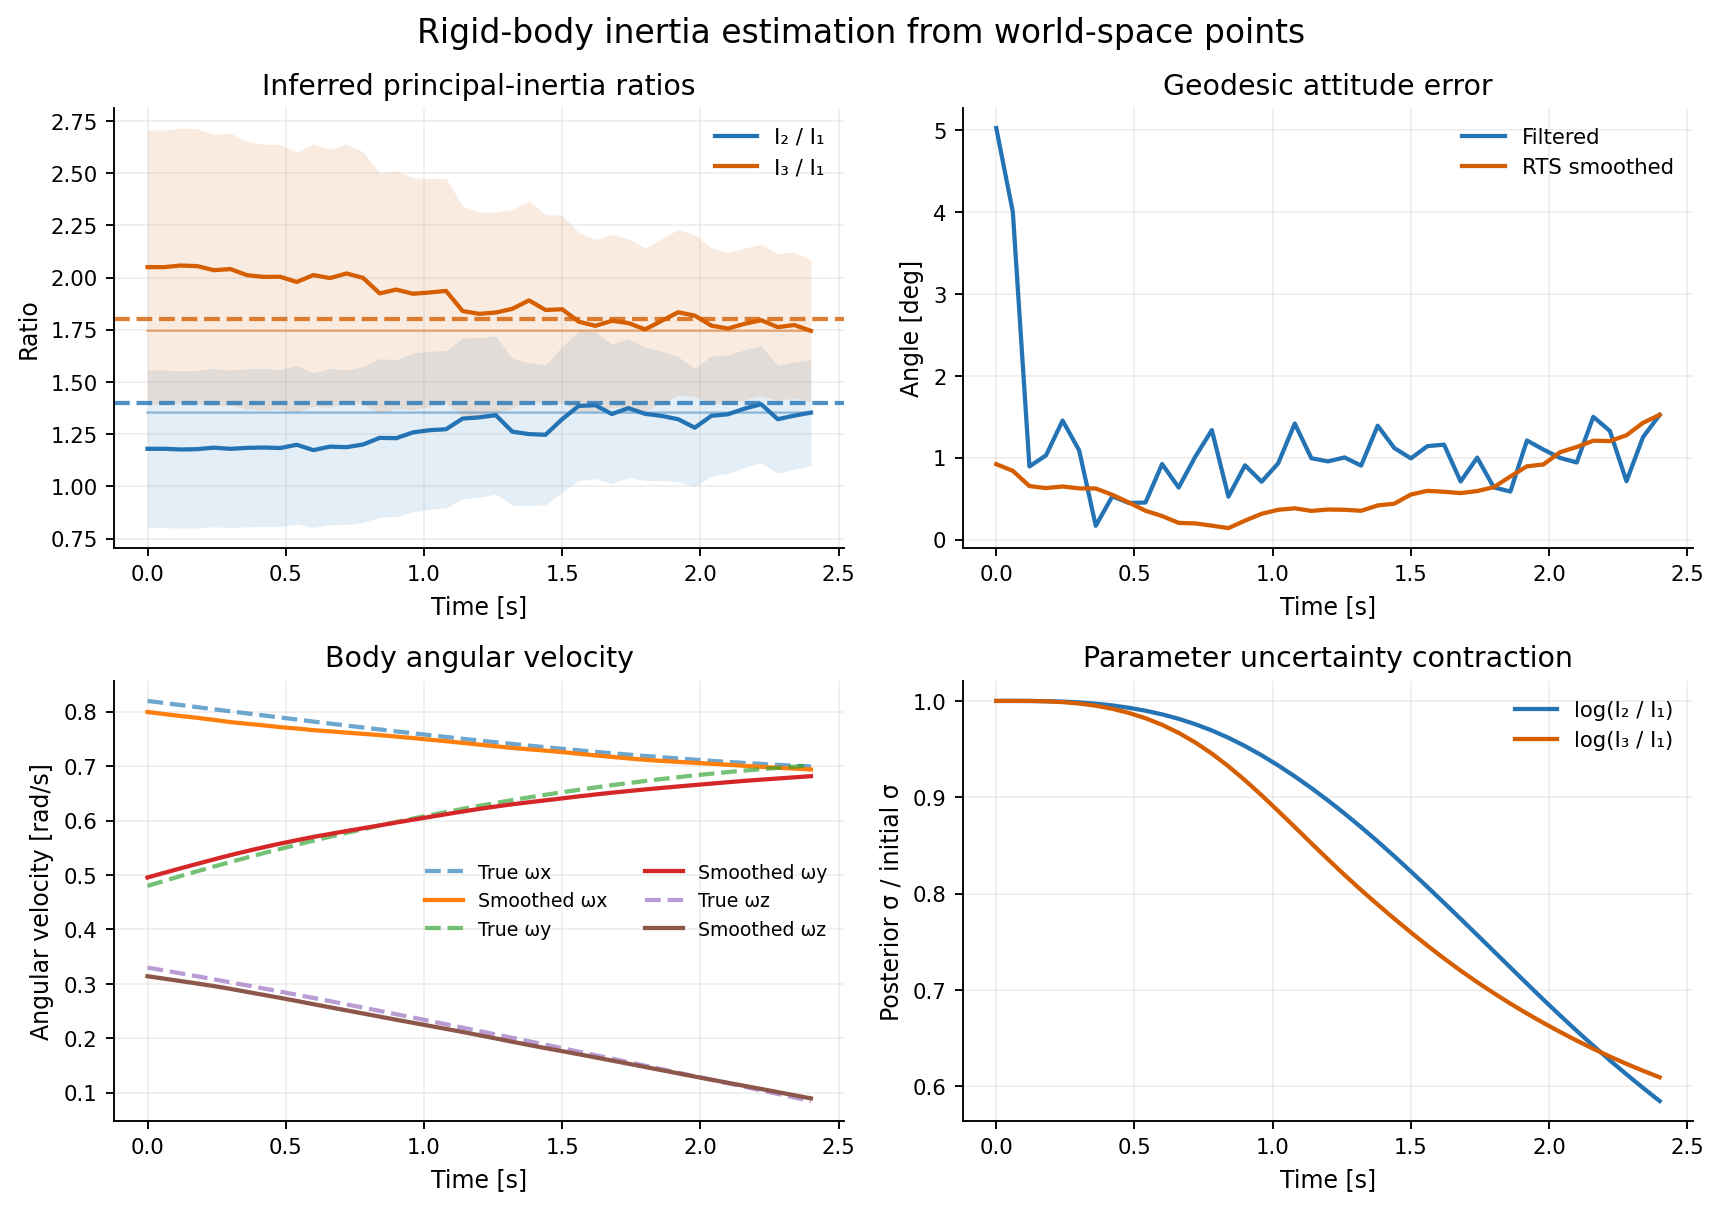
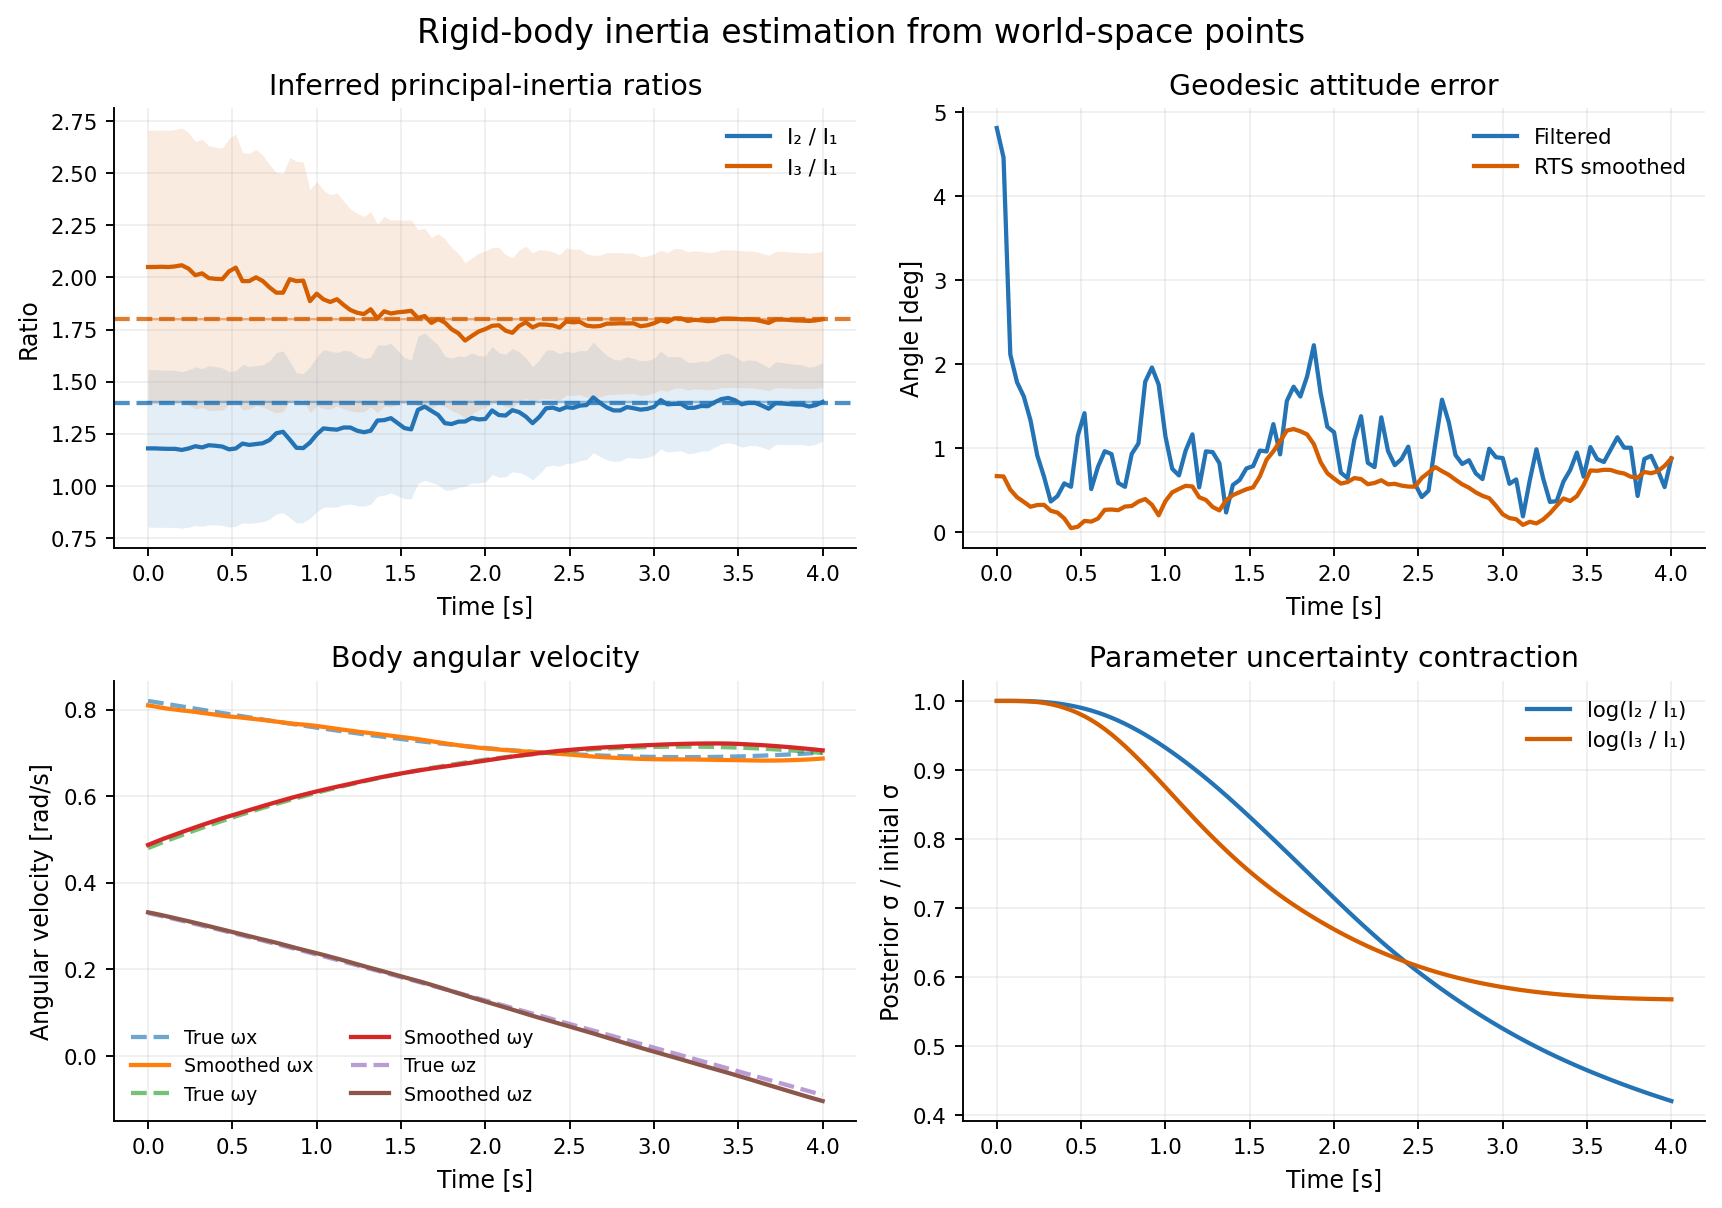
Extend rigid-body inertia estimation run

diff --git a/examples/rigid_body.py b/examples/rigid_body.py
@@ -316,26 +316,22 @@ def run_known_inertia_rigid_body(seed=301, num_steps=45, delta_t_s=0.06):
     )
 
 
-def run_inertia_estimation_rigid_body(seed=302, num_steps=40, delta_t_s=0.06):
+def run_inertia_estimation_rigid_body(seed=302, num_steps=100, delta_t_s=0.04):
     rng = np.random.default_rng(seed)
     times = np.arange(num_steps + 1, dtype=float) * delta_t_s
     inertia_matrix = np.diag([1.0, 1.4, 1.8])
     true_log_ratios = np.log(np.diag(inertia_matrix)[1:])
-    initial_truth = np.array(
-        [
-            -0.4,
-            0.2,
-            0.1,
-            0.30,
-            -0.08,
-            0.12,
-            0.18,
-            -0.12,
-            0.08,
-            0.82,
-            0.48,
-            0.33,
-        ]
+    initial_angular_velocity = np.array([0.82, 0.48, 0.33])
+    # This buys enough chart range for a longer run without crossing the pi cut.
+    initial_rotation_vector = (
+        -1.2 * initial_angular_velocity / np.linalg.norm(initial_angular_velocity)
+    )
+    initial_truth = np.concatenate(
+        (
+            np.array([-0.4, 0.2, 0.1, 0.30, -0.08, 0.12]),
+            initial_rotation_vector,
+            initial_angular_velocity,
+        )
     )
     truth = simulate_rigid_body_truth(initial_truth, times, inertia_matrix)
     measurements, _ = _rigid_body_observations(

diff --git a/tests/test_examples_rigid_body.py b/tests/test_examples_rigid_body.py
@@ -129,12 +129,16 @@ def test_inertia_estimation_converges_and_contracts_uncertainty():
         np.diag(inertia_from_log_ratios(np.log(true_ratios))),
         [1.0, 1.4, 1.8],
     )
-    assert final_error < 0.35 * initial_error
-    assert np.all(final_parameter_std < 0.75 * initial_parameter_std)
+    assert result["truth"].shape == (101, 12)
+    assert result["measurements"].shape == (100, 12)
+    assert final_error < 0.05 * initial_error
+    assert np.all(final_parameter_std < 0.65 * initial_parameter_std)
     assert np.mean(result["smoothed_rotation_error"]) < np.mean(
         result["filtered_rotation_error"]
     )
-    assert np.max(np.linalg.norm(result["truth"][:, 6:9], axis=1)) < 2.6
+    truth_rotation_vectors = result["truth"][:, 6:9]
+    assert np.max(np.linalg.norm(truth_rotation_vectors, axis=1)) < 2.9
+    assert np.max(np.linalg.norm(np.diff(truth_rotation_vectors, axis=0), axis=1)) < 0.1
     assert (
         rotation_distance(
             result["truth"][-1, 6:9],

diff --git a/examples/README.md b/examples/README.md
@@ -169,6 +169,8 @@ two identifiable log ratios
 Exponentiation keeps the inferred ratios positive. The parameters have tiny
 process noise and are inferred indirectly from the observed world-space point
 trajectories—there are no direct angular-velocity or inertia measurements.
+The default run uses 100 point-observation sets over four seconds, making both
+the ratio convergence and posterior-uncertainty contraction visible.
 
 ![Rigid-body inertia-ratio inference](figures/rigid-body-inertia-estimation.png)
 
